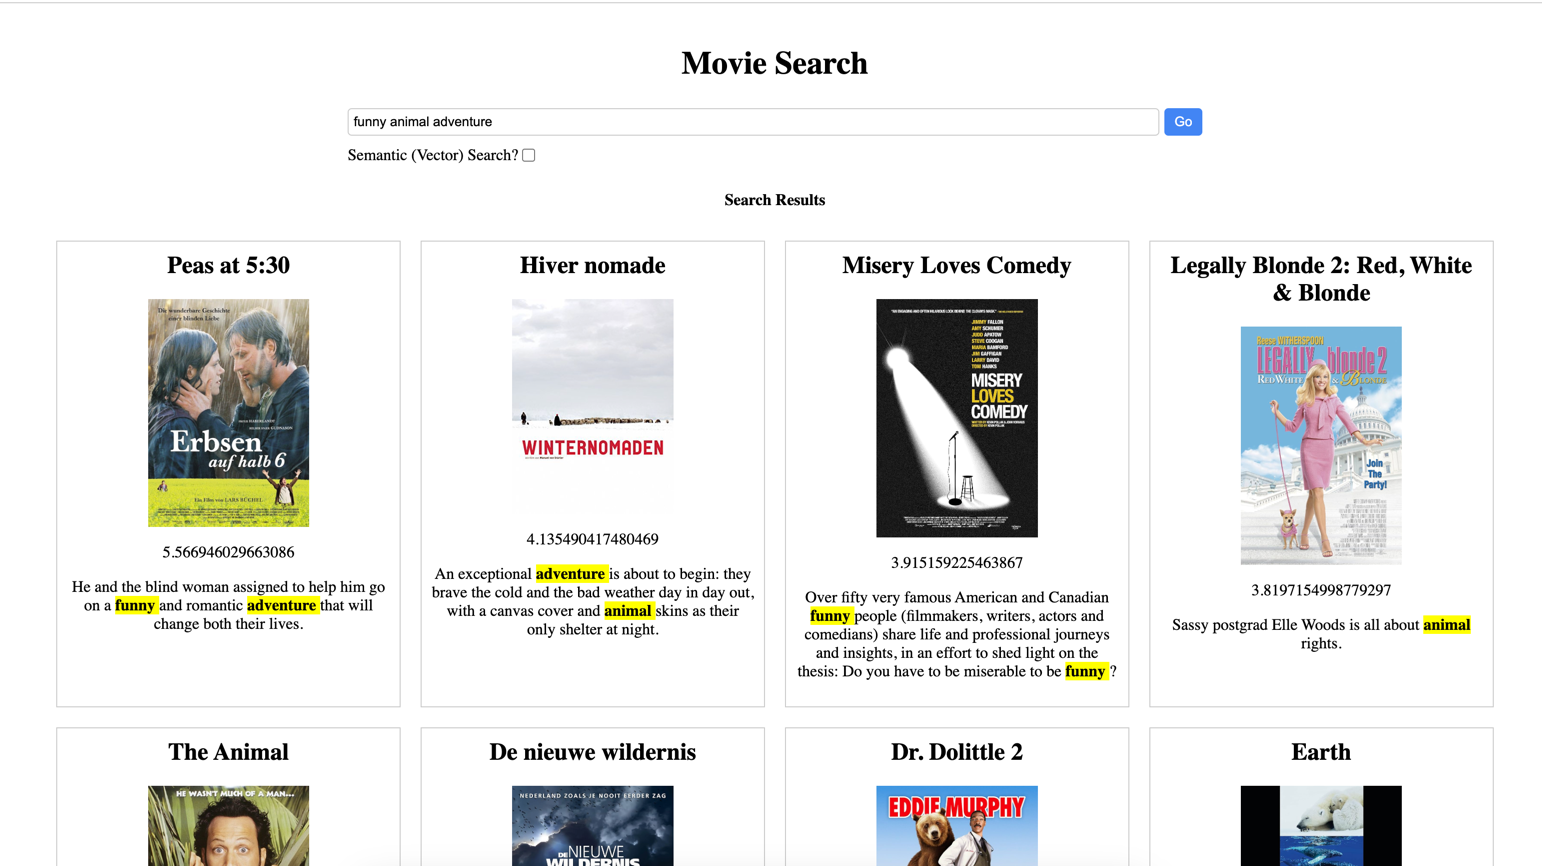
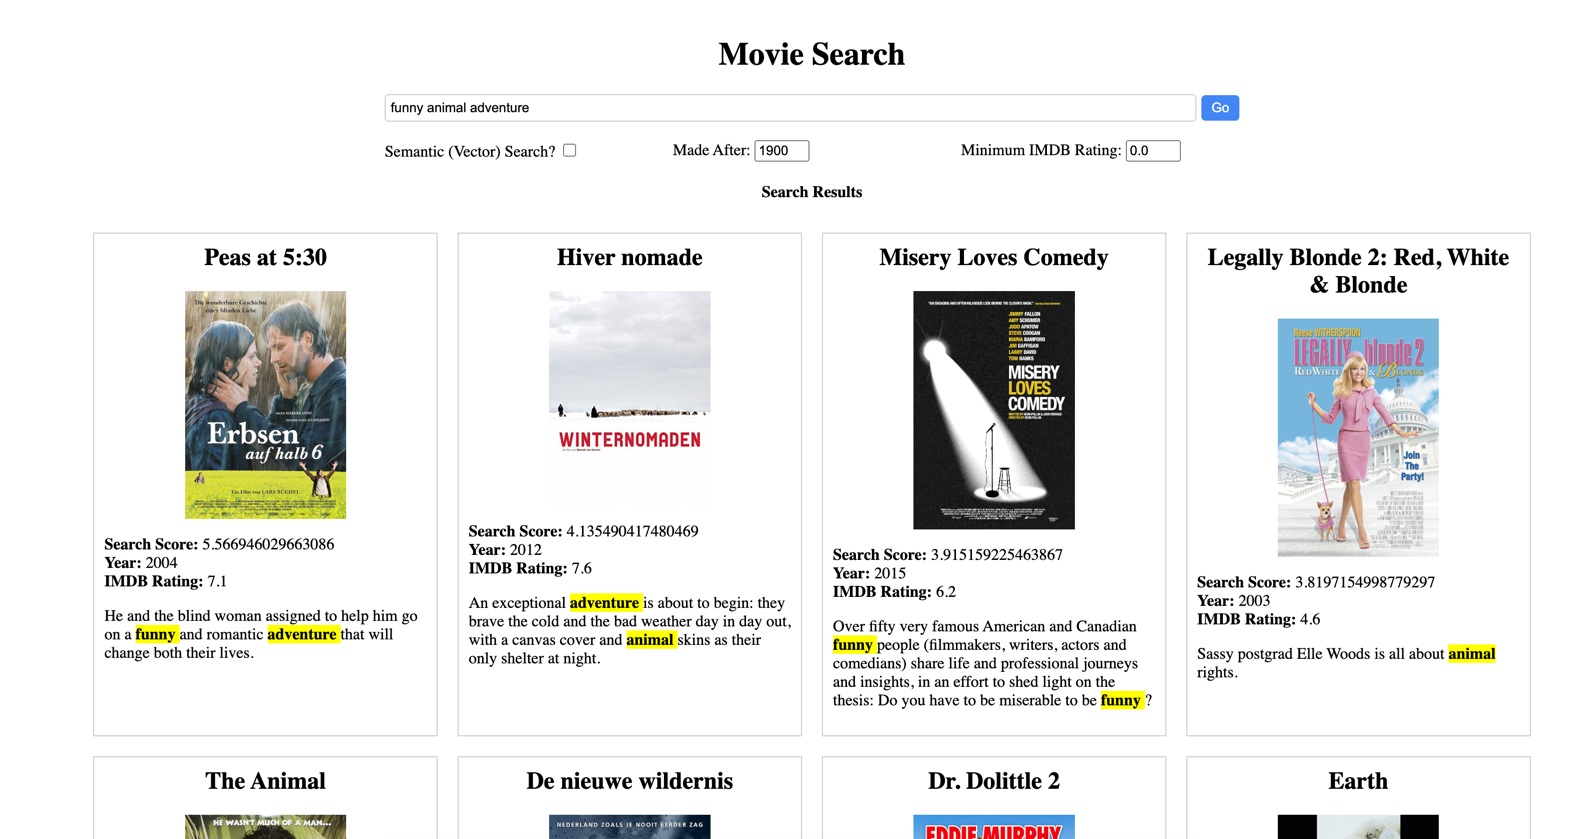
Updated to include filtering capabilities

diff --git a/templates/index.html b/templates/index.html
@@ -31,7 +31,16 @@
         }
         .row {
             display: flex;
-            padding: 5px;
+            justify-content: space-between;
+            align-items: center;
+            padding: 10
+        }
+        .input-container {
+            flex: 1;
+            margin-right: 10px; /* Adjust margin as needed */
+        }
+        .input-container:last-child {
+            margin-right: 0;
         }
         .spinner {
             display: none;
@@ -82,10 +91,6 @@
     <div class="search-box">
         <h1>Movie Search</h1>
         <form id="search-form" action="/" method="POST">
-            <!-- <div class="row"
-                <label for="vector_search">Semantic (Vector) Search?</label>
-                <input type="checkbox" name="vector_search" {{ vector }}>
-            </div> -->
             <div class="row">
                 <input type="text" name="search_query" placeholder="What type of film are you looking for?" value="{{ search_query }}" required>
                 <button type="submit" class="loading">
@@ -95,9 +100,20 @@
                     Go
                 </button>
             </div>
-            <div class="row"
-                <label for="vector_search">Semantic (Vector) Search?</label>
-                <input type="checkbox" name="vector_search" {{ vector }}>
+            <div><br></div>
+            <div class="row">
+                <div class="input-container">
+                    <label for="vector_search">Semantic (Vector) Search?</label>
+                    <input type="checkbox" name="vector_search" {{ vector }}>
+                </div>
+                <div class="input-container">
+                    <label for="min_year">Made After:</label>
+                    <input type="number" name="min_year" placeholder="1900" value="{{ min_year }}" min="1900" max="2024" step="1">
+                </div>
+                <div class="input-container">
+                    <label for="min_rating">Minimum IMDB Rating:</label>
+                    <input type="number" name="min_rating" placeholder="0.0" value="{{ min_rating }}" min="0" max="10" step=".1">
+                </div>
             </div>
         </form>
 
@@ -109,8 +125,10 @@
                         <div class="movie">
                             <h2>{{ movie.title }}</h2>
                             <img src="{{ movie.poster }}" alt="{{ movie.title }} Poster">
-                            <p>{{ movie.score }}</p>
-                            <p>{{ movie.fullplot|safe }}</p>
+                            <p style="text-align: left;"> <b>Search Score:</b> {{ movie.score }} <br>
+                                <b>Year:</b> {{ movie.year }} <br>
+                                <b>IMDB Rating:</b> {{ movie.imdb.rating }}</p>
+                            <p style="text-align: left;">{{ movie.fullplot|safe }}</p>
                         </div>
                     {% endfor %}
                 </div>

diff --git a/app.py b/app.py
@@ -14,23 +14,29 @@ def index():
     if request.method == 'POST':
         search_query = request.form['search_query']
         vector_search = request.form.get('vector_search')
+        min_year = request.form['min_year']
+        if min_year == '':
+            min_year = 1900
+        min_rating = request.form['min_rating']
+        if min_rating == '':
+            min_rating = 0
         if (vector_search is None):
-            return redirect(url_for('search',search_query=search_query))
+            return redirect(url_for('search',search_query=search_query, min_year=min_year, min_rating=min_rating))
         else:
-            return redirect(url_for('vectorSearch',search_query=search_query))
+            return redirect(url_for('vectorSearch',search_query=search_query, min_year=min_year, min_rating=min_rating))
     return render_template('index.html')
 
-@app.route('/search/<search_query>', methods=['GET'])
-def search(search_query):
+@app.route('/search/<search_query>/<int(signed=True):min_year>/<float(signed=True):min_rating>', methods=['GET'])
+def search(search_query, min_year, min_rating):
     print('search query ', search_query)
-    results = run_query(search_query, None)
-    return render_template('index.html', results=results, search_query=search_query, vector='unchecked')
+    results = run_query(search_query, None, min_year, min_rating)
+    return render_template('index.html', results=results, search_query=search_query, vector='unchecked', min_year=min_year, min_rating=min_rating)
 
-@app.route('/vectorSearch/<search_query>', methods=['GET'])
-def vectorSearch(search_query):
+@app.route('/vectorSearch/<search_query>/<int(signed=True):min_year>/<float(signed=True):min_rating>', methods=['GET'])
+def vectorSearch(search_query, min_year, min_rating):
     print('vector search for ', search_query)
-    results = run_query(search_query, True)
-    return render_template('index.html', results=results, search_query=search_query, vector='checked')
+    results = run_query(search_query, True, min_year, min_rating)
+    return render_template('index.html', results=results, search_query=search_query, vector='checked', min_year=min_year, min_rating=min_rating)
 
 def generate_vector(data):
     model = SentenceTransformer('sentence-transformers/all-MiniLM-L6-v2')
@@ -53,7 +59,7 @@ def add_highlights(highlight):
                 
     return txt
 
-def run_query(search_query, vector_search):
+def run_query(search_query, vector_search, min_year, min_rating):
     client = MongoClient(mongo_uri)
     db = client[db_name]
     collection = db[collection_name]
@@ -64,24 +70,40 @@ def run_query(search_query, vector_search):
                         'path': 'vectorPlot', 
                         'queryVector': generate_vector(search_query),
                         'numCandidates': 150, 
-                        'limit': 20
+                        'limit': 20,
+                        "filter": {
+                            "$and": [{"year": {"$gt": min_year}},
+                                    {"imdb.rating": {"$gte": min_rating}}
+                            ]
+                        }
                     }
                 }
     else:
         search = {  '$search': {
-                        'text': {
-                            'query': search_query,
-                            'path': 'fullplot',
-                            # 'fuzzy': {
-                            #     'maxEdits': 2,
-                            # },                        
+                        'compound': {
+                            'must': [{
+                                'text': {
+                                    'query': search_query,
+                                    'path': 'fullplot',
+                                }
+                            }],
+                            'filter': [{
+                                'range': {
+                                    'path': 'year',
+                                    'gt': min_year
+                                }},
+                                {'range': {
+                                    'path': 'imdb.rating',
+                                    'gte': min_rating
+                                },
+                            }]
                         },
                         'highlight': { 
                             'path': 'fullplot' 
                         }
                     }
                 }
-
+    print('search query: ', search)
     pipeline = [
         search,
         {
@@ -89,6 +111,8 @@ def run_query(search_query, vector_search):
                 '_id': 0,
                 'title': 1,
                 'fullplot': 1,
+                'year': 1,
+                'imdb.rating': 1,
                 'poster':1,
                 'score': {
                     '$meta': 'searchScore',

diff --git a/readme.md b/readme.md
@@ -68,10 +68,23 @@ Once you have the data in the movies collection, navigate to the Atlas Search co
     "fields": {
       "fullplot": {
         "type": "string"
-    }
+      },
+      "imdb": {
+        "type": "document",
+        "fields": {
+          "rating": {
+            "type": "number"
+          }
+        }
+      },
+      "year": {
+        "type": "number"
+      }
+  }
   }
 }
 ```
+
 ```
 {
   "mappings": {
@@ -82,6 +95,14 @@ Once you have the data in the movies collection, navigate to the Atlas Search co
         "path": "vectorPlot",
         "numDimensions": 384,
         "similarity": "euclidean"
+      },
+      {
+        "type": "filter",
+        "path": "imdb.rating"
+      },
+      {
+        "type": "filter",
+        "path": "year"
       }
     ]
   }
@@ -101,7 +122,7 @@ python3 app.py
 This will launch the application on the default endpoint which is [http://127.0.0.1:5000](http://127.0.0.1:5000)
 
 
-The demo script itself is relatively simple, enter some search criteria for the types of movies you want to see and show the difference between the traditional search (which uses tokenisers and inverted indexes to identify relevant results) and vector search (which uses transformers based on ML models to return contextually relevant results). 
+The demo script itself is relatively simple, enter some search criteria for the types of movies you want to see and show the difference between the traditional search (which uses tokenisers and inverted indexes to identify relevant results) and vector search (which uses transformers based on ML models to return contextually relevant results). Additionally you can apply filters to retrieve films made after a certain year or wiht an IMDB rating higher than a certain value.
 
 A good example of this would be to search for  "funny animal adventure" and you'll see the different results:
 
